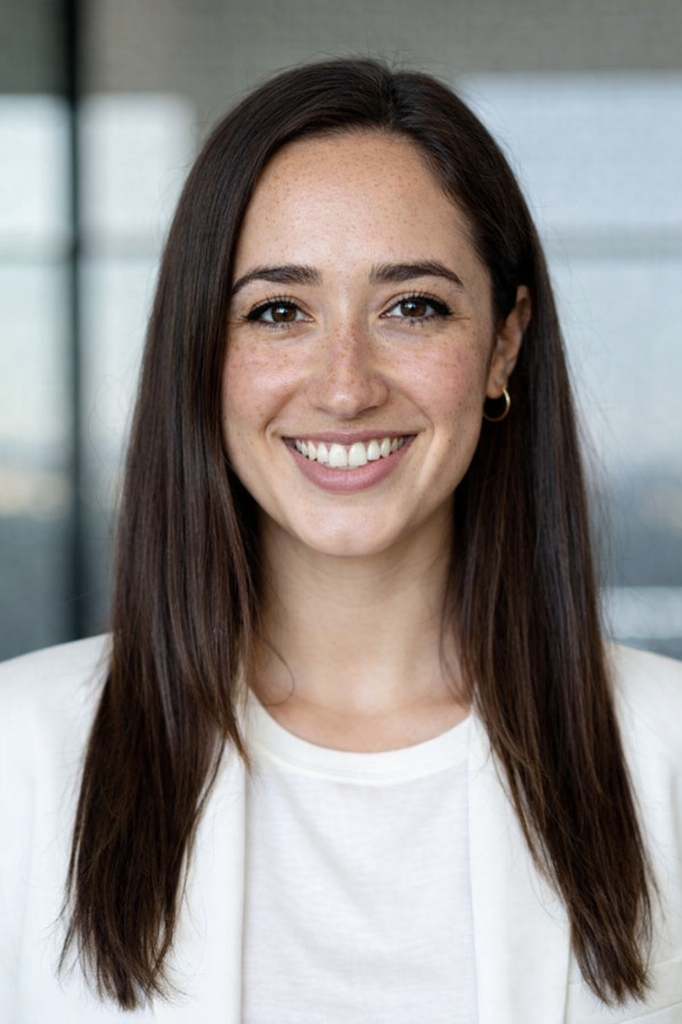
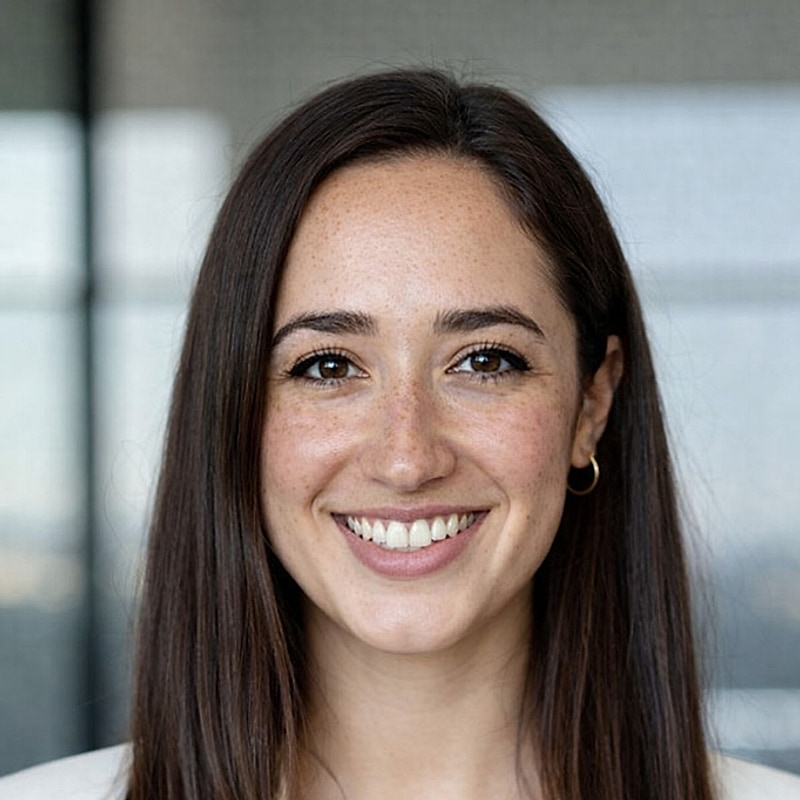
fix: replace synthetic footer hours and contact with profile copy

diff --git a/redesign-clone/components/Footer/Footer.jsx b/redesign-clone/components/Footer/Footer.jsx
@@ -97,33 +97,27 @@ export default function Footer({ className = "" }) {
                     <p className="m-0 font-medium text-white">Santa Monica Practice</p>
                     <p className="m-0">123th Street 45 W</p>
                     <p className="m-0">Santa Monica, CA 90401</p>
+                    <Link
+                      href="/#booking"
+                      className="text-white/80 hover:text-primary transition-colors duration-200 block mt-2"
+                    >
+                      Inquiries via consultation booking form
+                    </Link>
                   </div>
                 </div>
               </div>
 
-              {/* Services Column (formerly Hours) */}
+              {/* Hours Column */}
               <div className="footer-hours-block">
                 <div className="h-full flex flex-col justify-start">
                   <p className="font-sans text-[13px] sm:text-[14px] font-medium tracking-[0.14em] uppercase text-white mb-[12px]">
-                    SERVICES
+                    HOURS
                   </p>
-                  <ul className="list-none p-0 m-0 space-y-1">
-                    <li>
-                      <Link href="/#specialties" className="font-body font-light text-[14.5px] leading-[1.75] text-white/80 hover:text-primary transition-colors duration-200 block">
-                        Anxiety &amp; Panic Therapy
-                      </Link>
-                    </li>
-                    <li>
-                      <Link href="/#specialties" className="font-body font-light text-[14.5px] leading-[1.75] text-white/80 hover:text-primary transition-colors duration-200 block">
-                        Trauma &amp; EMDR Therapy
-                      </Link>
-                    </li>
-                    <li>
-                      <Link href="/#specialties" className="font-body font-light text-[14.5px] leading-[1.75] text-white/80 hover:text-primary transition-colors duration-200 block">
-                        Burnout &amp; Perfectionism Therapy
-                      </Link>
-                    </li>
-                  </ul>
+                  <div className="font-body font-light text-[14.5px] leading-[1.75] text-white/80">
+                    <p className="m-0">
+                      In-person in Santa Monica &bull; Secure telehealth across California
+                    </p>
+                  </div>
                 </div>
               </div>
 

diff --git a/redesign-clone/app/layout.jsx b/redesign-clone/app/layout.jsx
@@ -42,8 +42,8 @@ export const metadata = {
     images: [
       {
         url: `${SITE_URL}/og-portrait-only.jpg`,
-        width: 682,
-        height: 1024,
+        width: 800,
+        height: 800,
         type: "image/jpeg",
         alt: "Dr. Maya Reynolds, PsyD - Therapy in Santa Monica, CA",
       },
@@ -56,8 +56,8 @@ export const metadata = {
     images: [
       {
         url: `${SITE_URL}/og-portrait-only.jpg`,
-        width: 682,
-        height: 1024,
+        width: 800,
+        height: 800,
         type: "image/jpeg",
         alt: "Dr. Maya Reynolds, PsyD - Therapy in Santa Monica, CA",
       },
@@ -99,8 +99,8 @@ export default function RootLayout({ children }) {
         <meta property="og:image" content={`${SITE_URL}/og-portrait-only.jpg`} />
         <meta property="og:image:secure_url" content={`${SITE_URL}/og-portrait-only.jpg`} />
         <meta property="og:image:type" content="image/jpeg" />
-        <meta property="og:image:width" content="682" />
-        <meta property="og:image:height" content="1024" />
+        <meta property="og:image:width" content="800" />
+        <meta property="og:image:height" content="800" />
         <meta property="og:image:alt" content="Dr. Maya Reynolds, PsyD - Therapy in Santa Monica, CA" />
         <meta name="twitter:card" content="summary_large_image" />
         <meta name="twitter:title" content="Anxiety & Trauma Therapist in Santa Monica | Dr. Maya Reynolds, PsyD" />

diff --git a/redesign-clone/README.md b/redesign-clone/README.md
@@ -78,6 +78,7 @@ Every line of visible copy on the site traces directly to an exact statement fro
 | **Section 8 (Methods)** | CBT, Body-Oriented Techniques, EMDR Therapy, Mindfulness-Based Practices | *"I integrate evidence-based methods such as cognitive-behavioral therapy (CBT), EMDR, mindfulness-based practices, and body-oriented techniques..."* (Line 14) |
 | **FAQs** | "Where is your Santa Monica office... Who do you typically work with... What is a therapy session with you like... How do you approach trauma therapy and EMDR... How do we get started?" | Drawn strictly from Lines 6, 12, 14, 15, 17, 19 of PROFILE.md without invented logistics. |
 | **Section 9 (CTA)** | "Ready to slow down and reconnect? Whether we meet in person in Santa Monica or online across California, I may be a good fit if you want practical tools combined with depth-oriented work." | *"If you’re looking for a therapist who combines practical tools with depth-oriented work—and who understands the realities of living and working in a fast-paced environment—I may be a good fit."* (Line 19) |
+| **Footer** | "Inquiries via consultation booking form... In-person in Santa Monica • Secure telehealth across California" | *"I offer both in-person therapy from my Santa Monica office and secure telehealth sessions for clients located in California."* (Line 17) |
 
 > [!NOTE]
 > `/terms`, `/privacy-policy`, and `/disclaimer` are placeholder pages built with the existing Header and Footer, one `<h1>` each, a single notice paragraph (`"This page will be provided by Dr. Reynolds' practice before launch."`), and `noindex` robots metadata.
